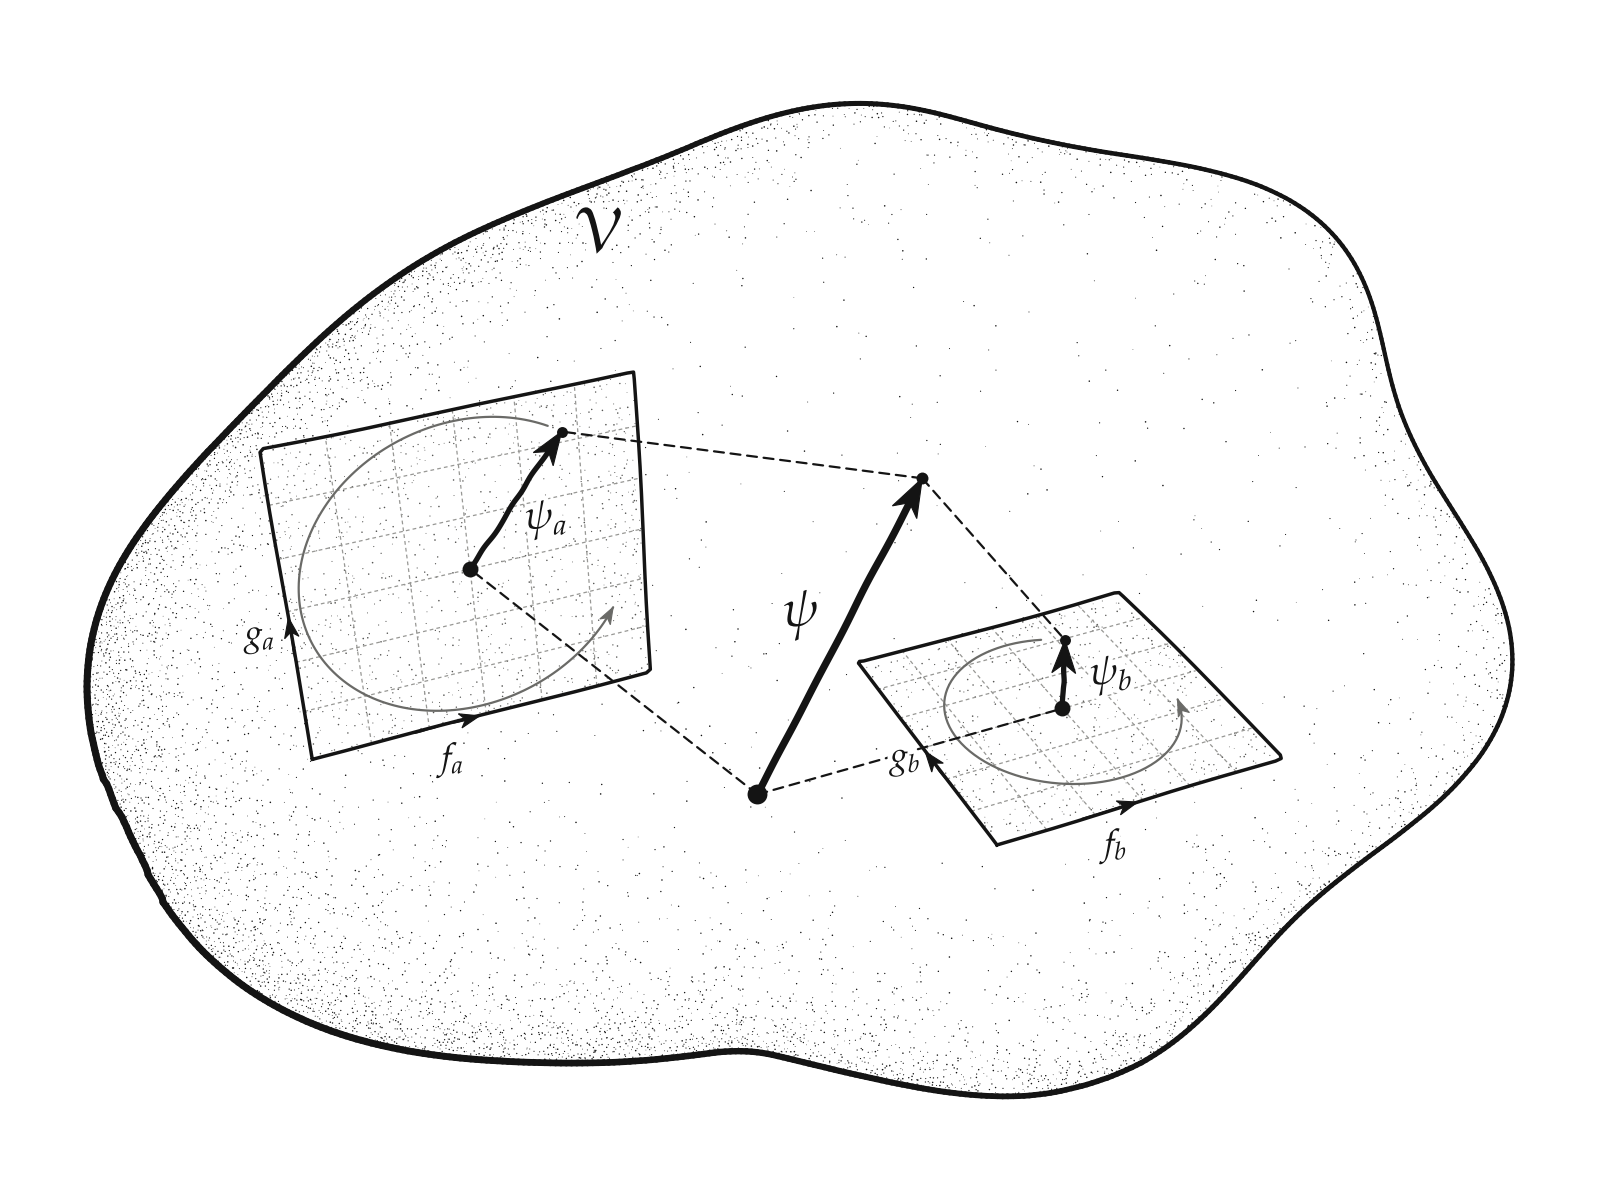
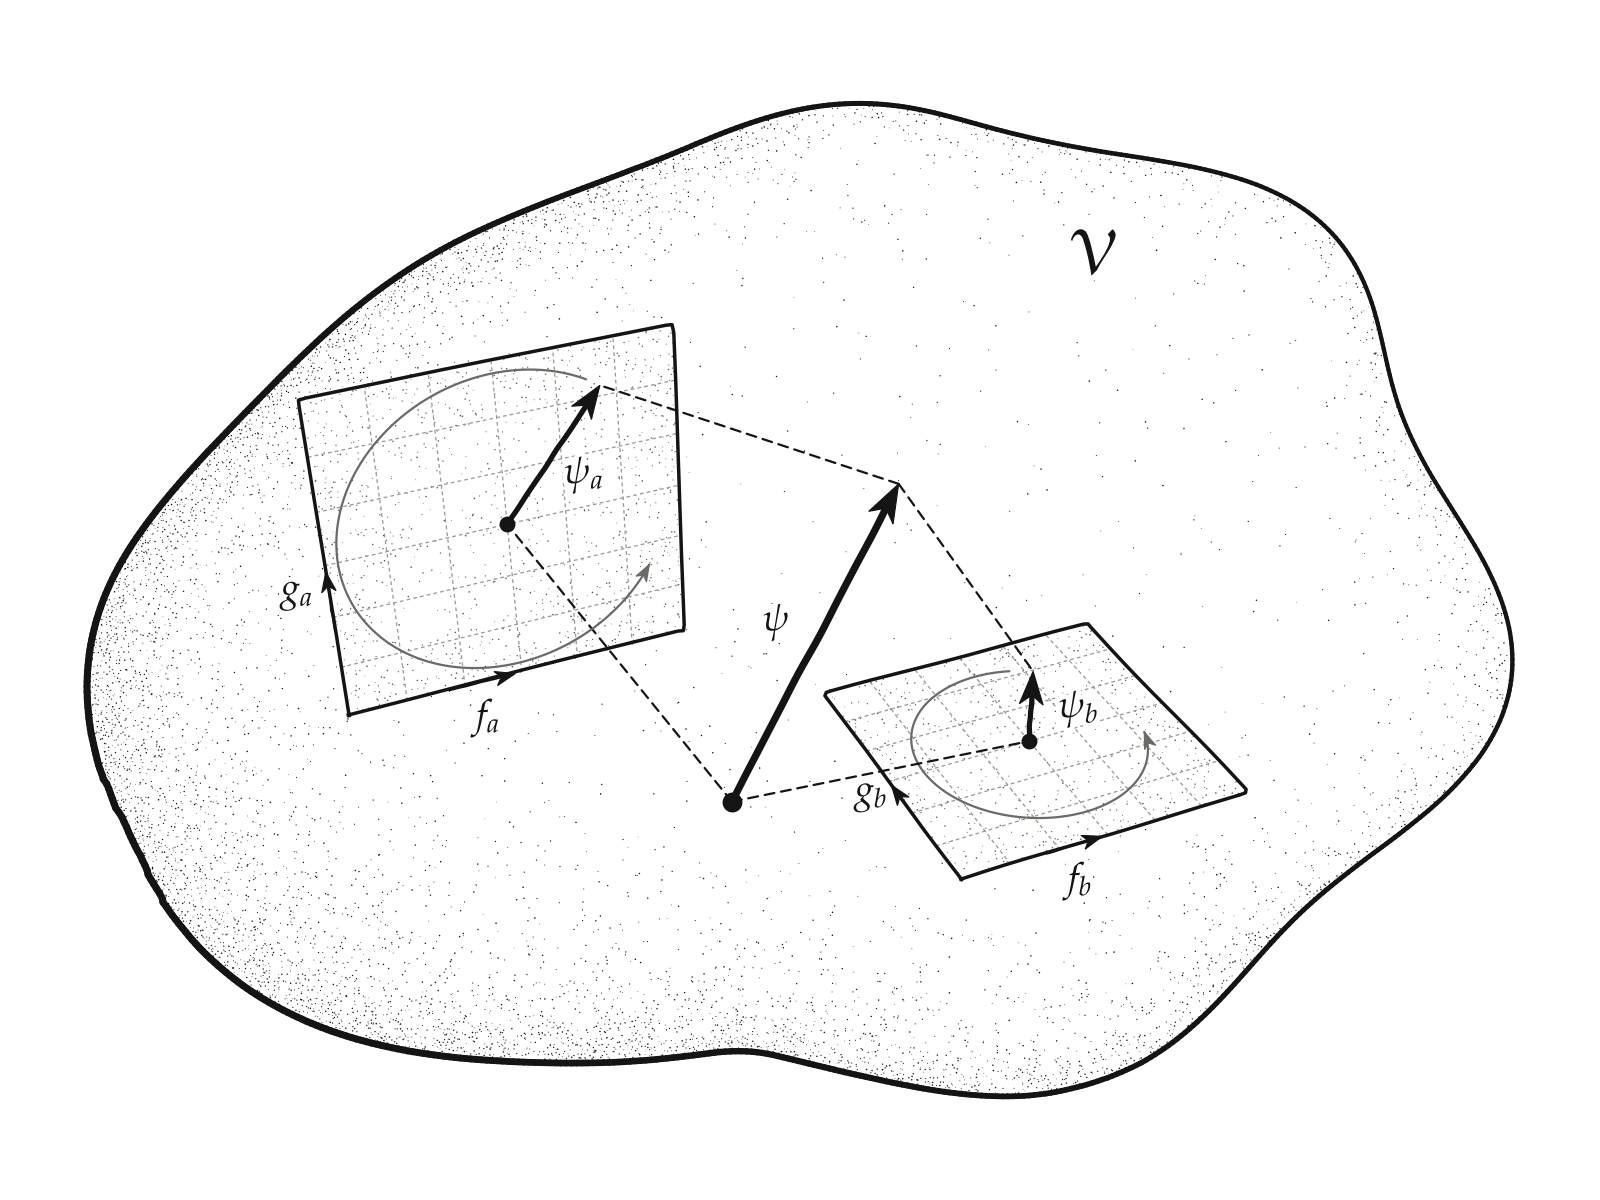
Refine conjugate-planes layout
Drop the dots at arrow tips, nudge plane a up and right and plane b
down and left with the state arrow between them, set symbol labels at
14 pt with 𝒱 at 24 pt in the upper right, and steady the pen wobble on
plane edges so corners stay crisp.

diff --git a/src/morphis/examples/conjugate_planes.py b/src/morphis/examples/conjugate_planes.py
@@ -42,9 +42,9 @@ def create_sketch(theme: str = "ink") -> Sketch:
     sketch.space(OrganicSpace(seed=3, stretch=(1.6, 1.25, 1.05), size=3.2))
 
     # Placement: where each piece sits in the drawing space
-    origin = array([-0.95, -0.9, -1.1])
-    anchor_a = array([-2.55, 0.5, 0.45])
-    anchor_b = array([2.2, 0.1, -2.0])
+    origin = array([-1.15, -0.9, -1.1])
+    anchor_a = array([-2.25, 0.5, 0.75])
+    anchor_b = array([1.9, 0.1, -2.25])
     reach = 1.3
 
     for anchor, u, v, mode in ((anchor_a, f_a, g_a, "a"), (anchor_b, f_b, g_b, "b")):
@@ -52,26 +52,23 @@ def create_sketch(theme: str = "ink") -> Sketch:
         sketch.plane(u, v, at=corner, span=((0.0, 2 * reach), (0.0, 2 * reach)), grid=6, tone=0.3)
         sketch.vector(0.5 * u, at=corner + 0.75 * sketch.drawn(u), weight="fine", head=0.8)
         sketch.vector(0.5 * v, at=corner + 0.75 * sketch.drawn(v), weight="fine", head=0.8)
-        sketch.label(rf"$f_{mode}$", corner + 1.0 * sketch.drawn(u), offset=(3, -13))
-        sketch.label(rf"$g_{mode}$", corner + 1.0 * sketch.drawn(v), offset=(-12, 3))
+        sketch.label(rf"$f_{mode}$", corner + 1.0 * sketch.drawn(u), offset=(3, -13), size=14)
+        sketch.label(rf"$g_{mode}$", corner + 1.0 * sketch.drawn(v), offset=(-12, 3), size=14)
 
-    tip_a = sketch.vector(shadow_a, at=anchor_a, weight="bold", label="$ψ_a$", label_offset=-13)
-    tip_b = sketch.vector(shadow_b, at=anchor_b, weight="bold", label="$ψ_b$", label_offset=-17)
+    tip_a = sketch.vector(shadow_a, at=anchor_a, weight="bold", label="$ψ_a$", label_offset=-13, label_size=14)
+    tip_b = sketch.vector(shadow_b, at=anchor_b, weight="bold", label="$ψ_b$", label_offset=-17, label_size=14)
     sketch.circle(anchor_a, f_a, g_a, radius=norm(shadow_a.data), arc=(1.0, 2.6 + pi), arrow=True)
     sketch.circle(anchor_b, f_b, g_b, radius=norm(shadow_b.data), arc=(1.25, 2.85 + pi), arrow=True)
     sketch.point(anchor_a)
     sketch.point(anchor_b)
 
-    tip = sketch.vector(state, at=origin, scale=1.55, weight="heavy", label="$ψ$", label_offset=16, label_size=19)
+    tip = sketch.vector(state, at=origin, scale=1.55, weight="heavy", label="$ψ$", label_offset=16, label_size=14)
     sketch.point(origin, radius=4.0)
-    sketch.point(tip, radius=2.4)
-    sketch.point(tip_a, radius=2.2)
-    sketch.point(tip_b, radius=2.2)
 
     for start, end in ((origin, anchor_a), (origin, anchor_b), (tip, tip_a), (tip, tip_b)):
         sketch.line(start, end)
 
-    sketch.label(r"$\mathcal{V}$", array([-1.6, 0.0, 3.05]), offset=(0, 0), size=24)
+    sketch.label(r"$\mathcal{V}$", array([2.35, 0.4, 1.95]), offset=(0, 0), size=24)
 
     return sketch
 

diff --git a/src/morphis/visuals/ink/sketch.py b/src/morphis/visuals/ink/sketch.py
@@ -387,7 +387,7 @@ class Sketch:
                 )
             )
 
-        edge = _wobble(concatenate([page, page[:1]]), 0.5 * units_per_point, rng, samples=200)
+        edge = _wobble(concatenate([page, page[:1]]), 0.3 * units_per_point, rng, samples=200)
         axes.plot(*edge.T, color=ink, linewidth=WEIGHTS["regular"], solid_joinstyle="round", zorder=zorder + 3e-5)
 
     def _render_construction(self, axes, page, mark, zorder, units_per_point, rng) -> None:
